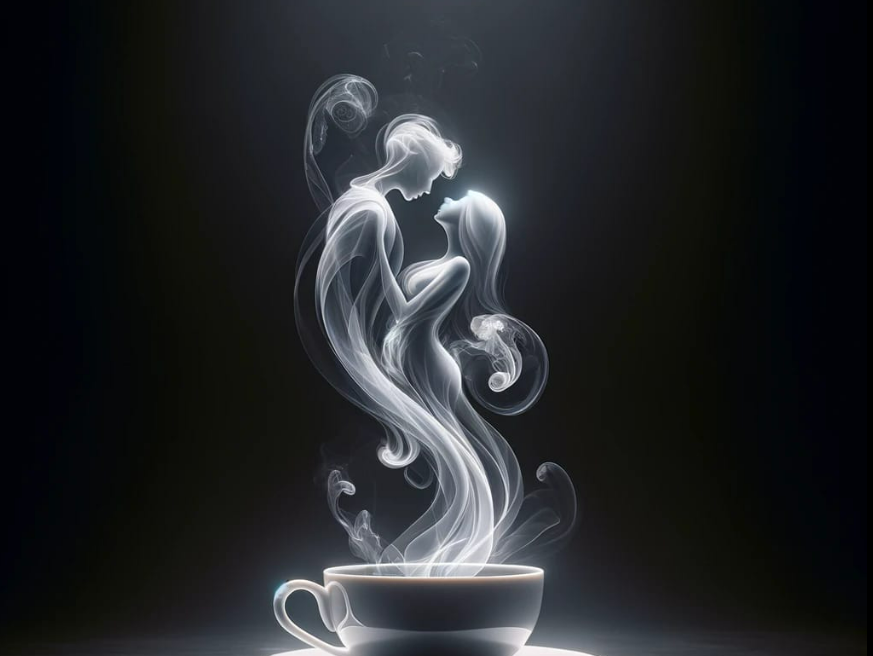
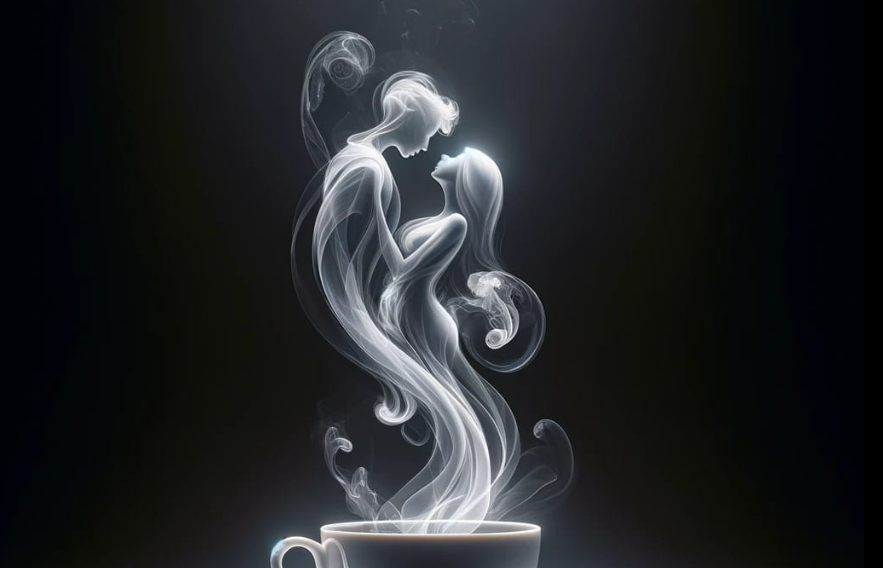
Update hero image with new animated coffee cup and steam effect
Replace previous hero images with a single animated coffee cup image (`hero-cup.png`) in `SteamEffect.tsx`, applying the `steamRise` animation with screen blend mode.

Replit-Commit-Author: Agent
Replit-Commit-Session-Id: 95aa7046-7ba8-4be9-8c78-6ce84f6680a8
Replit-Commit-Checkpoint-Type: full_checkpoint
Replit-Commit-Event-Id: 5a3aa1e3-08cf-4280-a150-41a7cdcad370
Replit-Commit-Screenshot-Url: https://storage.googleapis.com/screenshot-production-us-central1/3813ce74-a858-4e6b-9c05-d6d604a93078/95aa7046-7ba8-4be9-8c78-6ce84f6680a8/x73vyhv
Replit-Helium-Checkpoint-Created: true

Changed region(s): [[0.0619, 0.0299, 0.9278, 1.0]]

diff --git a/artifacts/hard-house-coffee/src/components/SteamEffect.tsx b/artifacts/hard-house-coffee/src/components/SteamEffect.tsx
@@ -11,58 +11,22 @@ export default function SteamEffect() {
   if (gone) return null;
 
   return (
-    <>
-      {/* Coffee cup + steam figures — perfectly synced with smoke, same 6s fade */}
-      <img
-        src="/images/hero-cup.png"
-        alt=""
-        style={{
-          position: "fixed",
-          bottom: 0,
-          left: "50%",
-          transform: "translateX(-50%)",
-          zIndex: 9998,
-          pointerEvents: "none",
-          height: "clamp(65vh, 78vh, 88vh)",
-          width: "auto",
-          animation: "mugFade 6s ease-in-out forwards",
-          mixBlendMode: "screen",
-          filter: "brightness(0.92) contrast(1.05)",
-        }}
-      />
-
-      {/* Smoke overlay */}
-      <div
-        style={{
-          position: "fixed",
-          bottom: "-5vh",
-          left: "calc(50% + 45px)",
-          transform: "translateX(-50%)",
-          width: "130vw",
-          height: "115vh",
-          pointerEvents: "none",
-          zIndex: 9999,
-          mixBlendMode: "screen",
-          animation: "steamRise 6s ease-in-out forwards",
-          maskImage:
-            "radial-gradient(ellipse 72% 85% at 50% 68%, black 10%, rgba(0,0,0,0.55) 42%, transparent 75%)",
-          WebkitMaskImage:
-            "radial-gradient(ellipse 72% 85% at 50% 68%, black 10%, rgba(0,0,0,0.55) 42%, transparent 75%)",
-        }}
-      >
-        <img
-          src="/images/steam2.png"
-          alt=""
-          style={{
-            width: "100%",
-            height: "100%",
-            objectFit: "cover",
-            objectPosition: "center center",
-            display: "block",
-            filter: "sepia(0.35) brightness(1.05) contrast(0.9) blur(3px)",
-          }}
-        />
-      </div>
-    </>
+    <img
+      src="/images/hero-cup.png"
+      alt=""
+      style={{
+        position: "fixed",
+        bottom: "-5vh",
+        left: "calc(50% + 45px)",
+        width: "130vw",
+        height: "115vh",
+        objectFit: "contain",
+        objectPosition: "center bottom",
+        pointerEvents: "none",
+        zIndex: 9999,
+        mixBlendMode: "screen",
+        animation: "steamRise 6s ease-in-out forwards",
+      }}
+    />
   );
 }